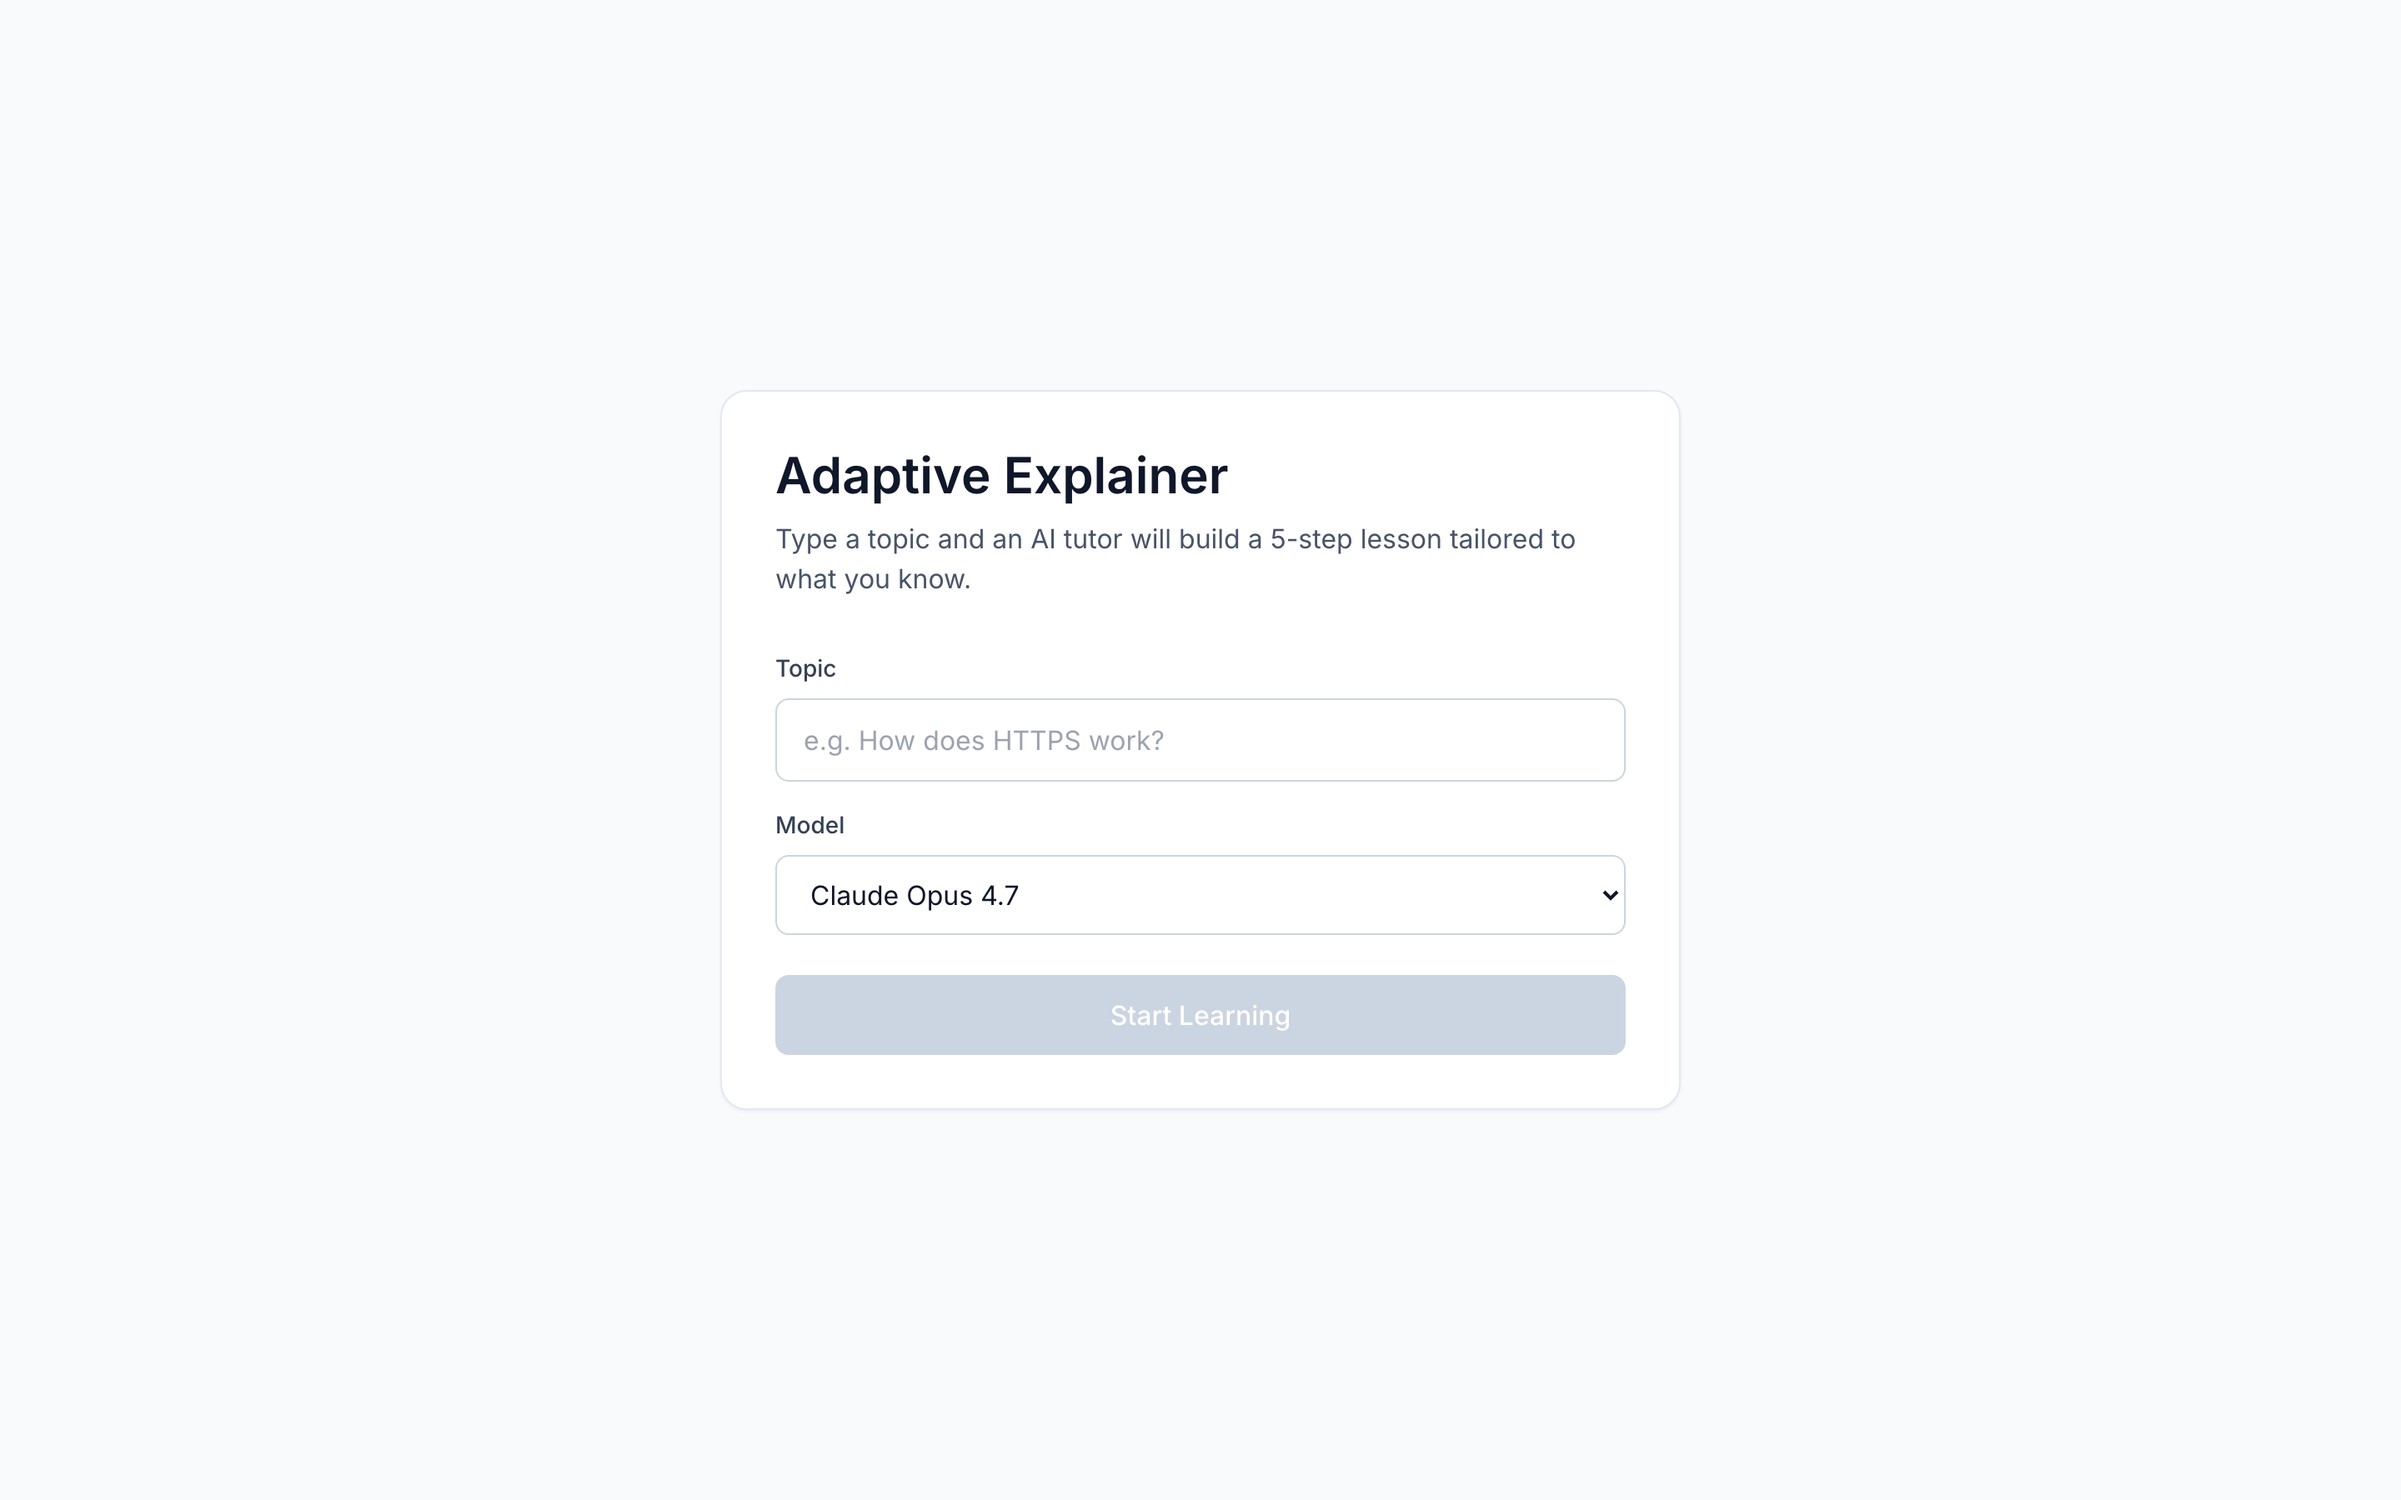
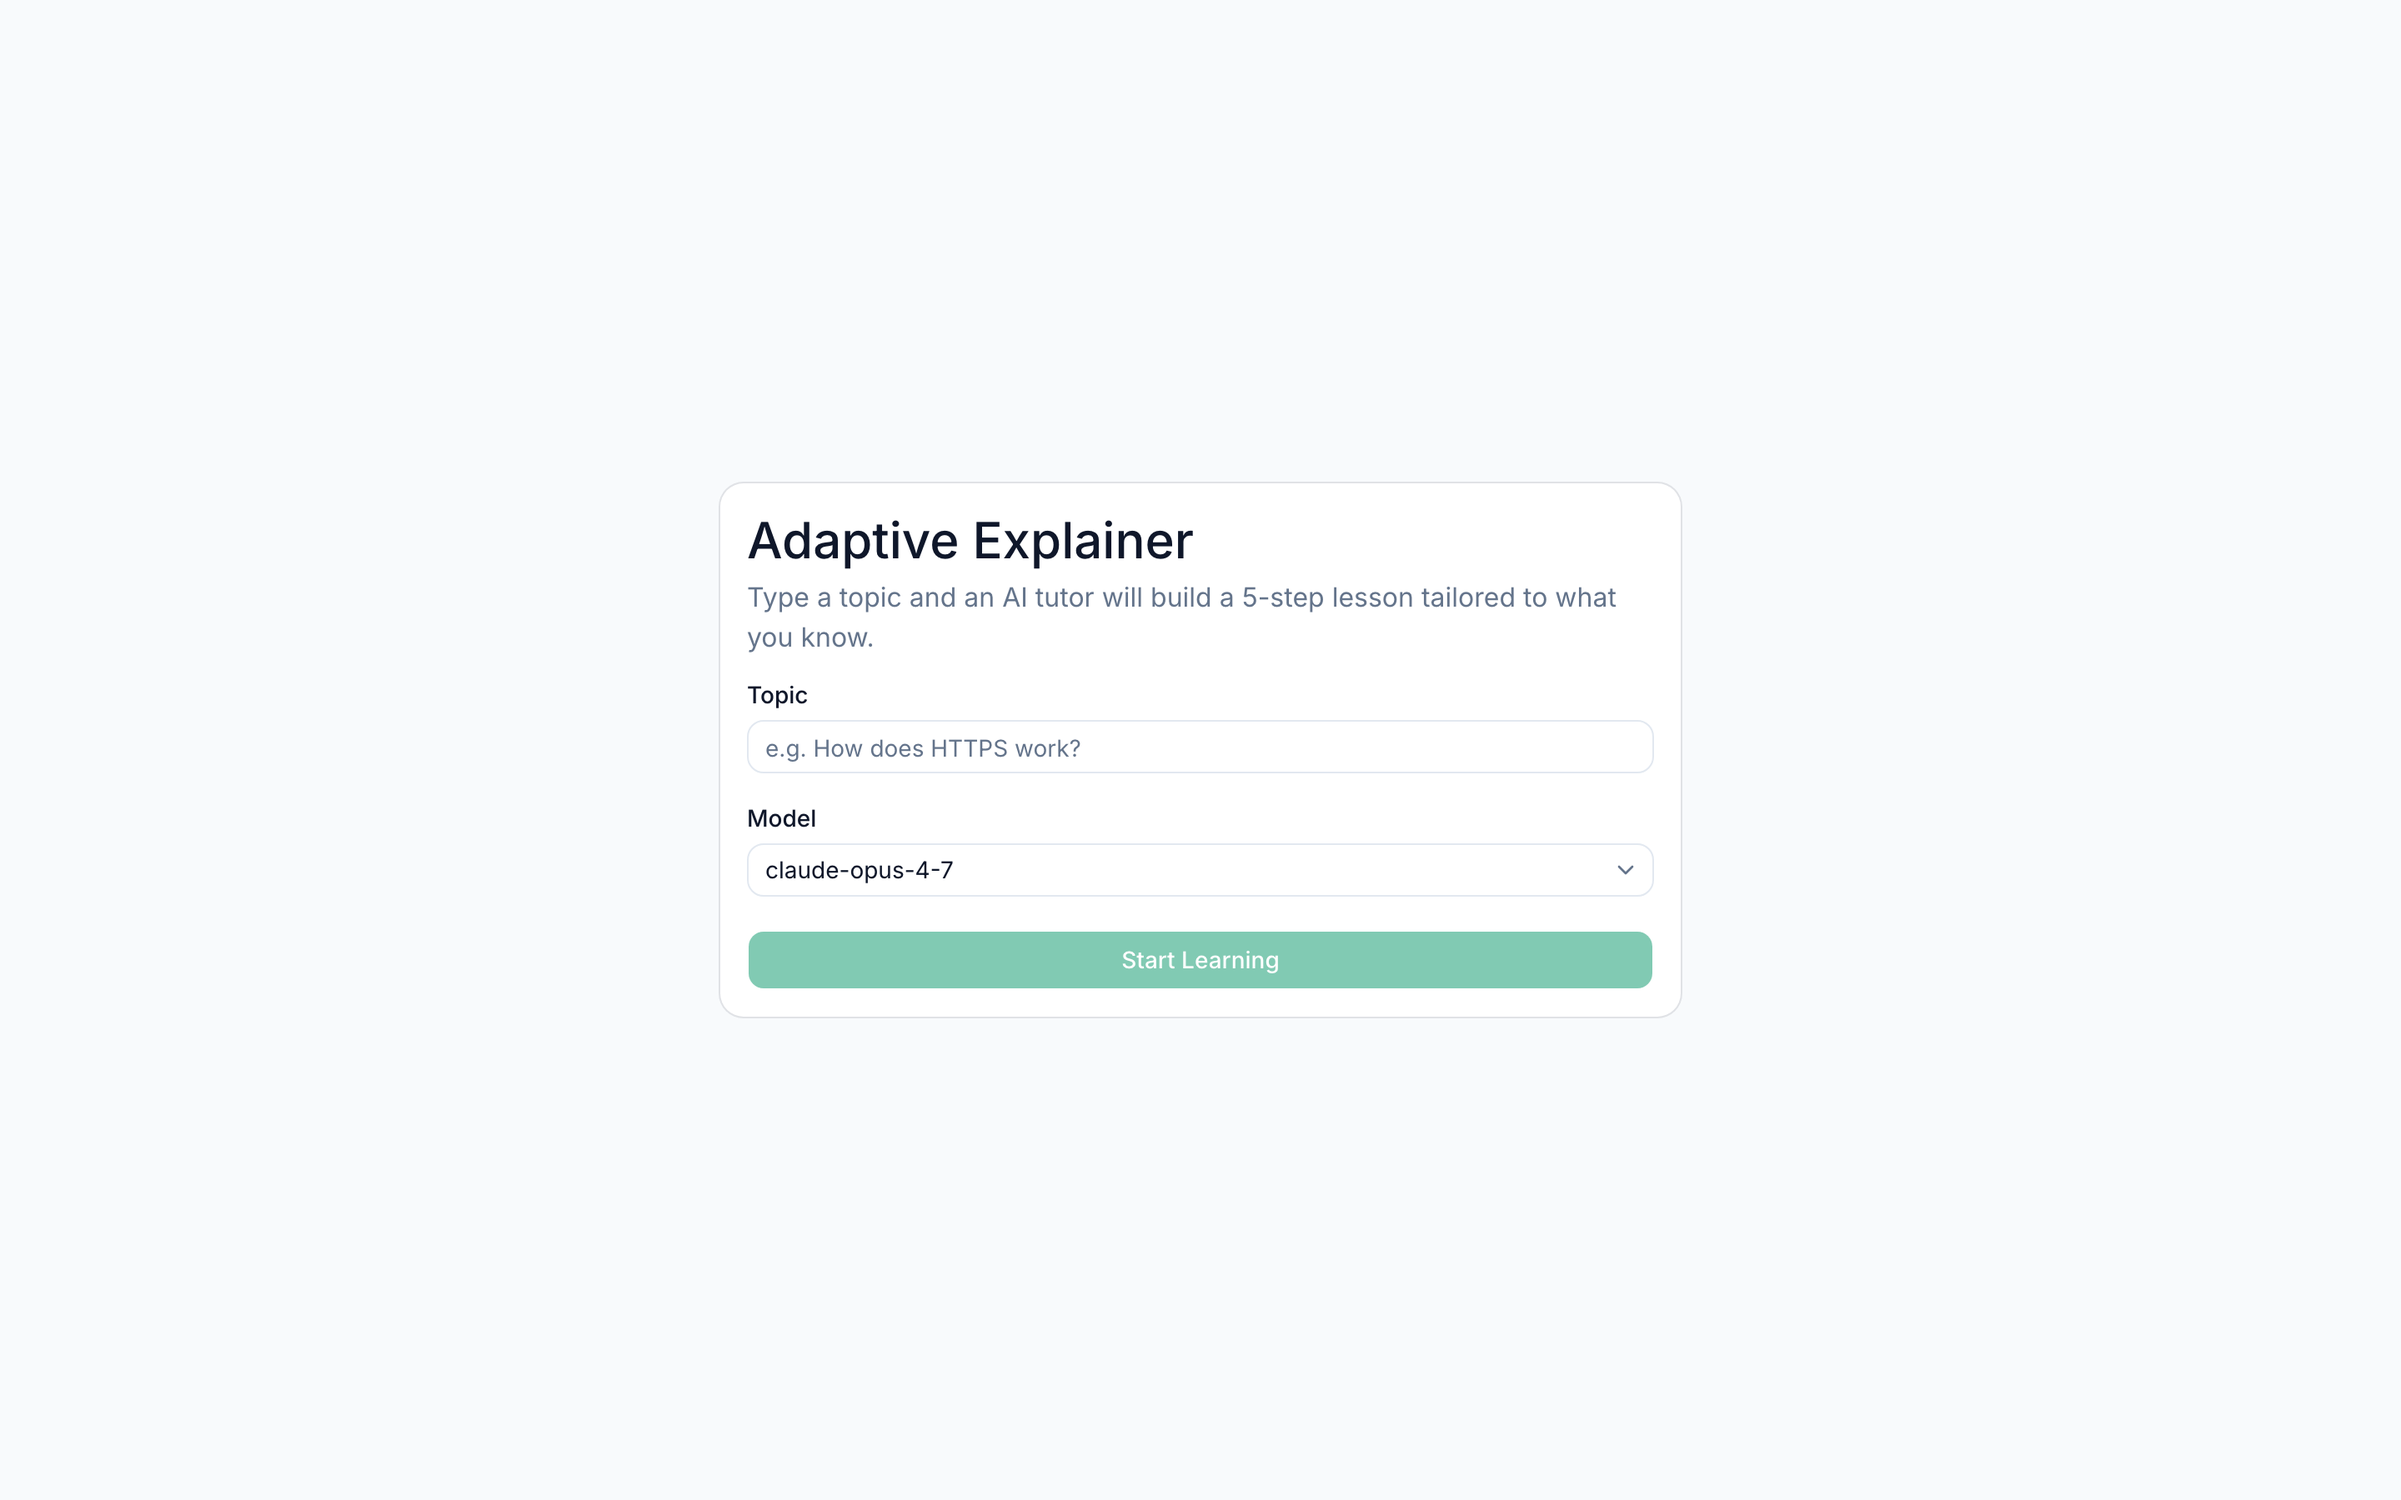
Refresh screenshots for the shadcn UI
- Recapture all three against the deployed shadcn/Tailwind-v4 build
- Update screenshots.mjs to drive the Base UI Select (no longer a
  native <select>); model picked by visible label
- Tighten the question-screenshot caption to match actual behavior

Changed region(s): [[0.3125, 0.3111, 0.6875, 0.7156]]

diff --git a/README.md b/README.md
@@ -8,7 +8,7 @@ An AI-powered learning application that creates personalized, multi-step explana
 
 ![Step 1 of a lesson. The right sidebar shows the live learning path and the system's current model of the learner.](docs/screenshots/02-lesson.png)
 
-![After a follow-up question the user model updates — confidence climbs from 30% to 55%, vocabulary shifts to "technical", and concrete known concepts and gaps appear.](docs/screenshots/03-question.png)
+![After a follow-up question the user model updates — confidence rises and the concepts the question revealed are added to the sidebar.](docs/screenshots/03-question.png)
 
 ## Features
 
